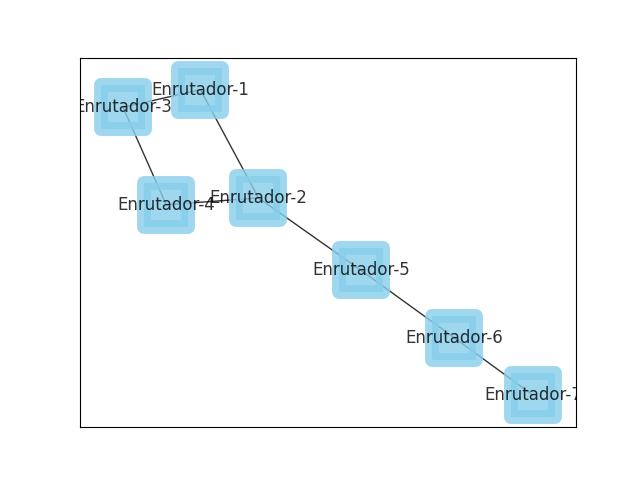
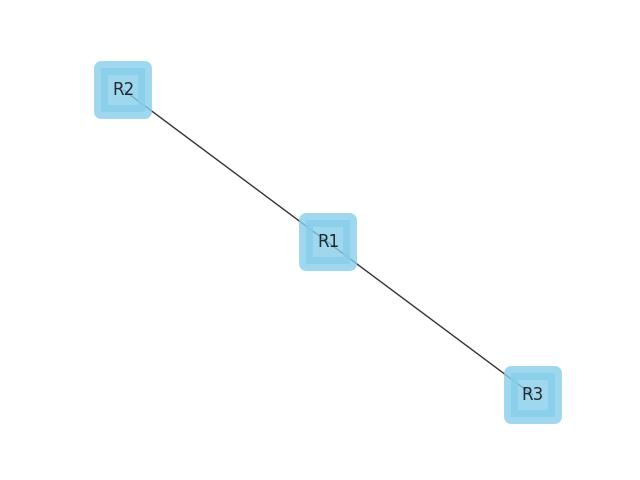
0.2v

diff --git a/static/scripts/main.js b/static/scripts/main.js
@@ -1,9 +1,69 @@
 /* LISTENERS */
 // Documento
-document.addEventListener('DOMContentLoaded', cargarTopologia);
+//document.addEventListener('DOMContentLoaded', cargarTopologia);
+
+
+
+document.getElementById("demo").addEventListener("click", myFunction);
+document.getElementById("demo1").addEventListener("click", myFunction2);
+
+
+function myFunction() {
+    sessionStorage.setItem('boton', true);
+    document.getElementById('contenedor_user').style.display = "block";
+    document.getElementById("user").value="";
+    document.getElementById("pass").value="";
+}
+function myFunction2(){
+    cargarTopologia(sessionStorage.getItem('user'),sessionStorage.getItem('pass'));
+    document.location.reload(true);
+}
+
+if(sessionStorage.getItem('boton') == 'true'){
+    document.getElementById("demo").disabled = true;
+    document.getElementById("demo").style.backgroundColor = '#764b4f';
+}
+
+document.getElementById('btn_can').addEventListener("click",function() {
+    document.getElementById('contenedor_user').style.display = "none";
+    sessionStorage.removeItem('explorar');
+    sessionStorage.removeItem('boton');
+  });
+  document.getElementById('btn_acce').addEventListener("click",function() {
+    Verify()
+  });
+
+
+window.addEventListener("click",function(event) {
+    if (event.target == this.document.getElementById('contenedor_user')) {
+      this.document.getElementById('contenedor_user').style.display = "none";
+    }
+  });
+
+function Verify() {
+    var user =  document.getElementById("user").value;
+    var pass = document.getElementById("pass").value;
+    
+    if(user.leght == 0 || pass.leght == 0){
+        alert('Esta vacio');
+    }else{
+        sessionStorage.setItem('user',user);
+        sessionStorage.setItem('pass',pass);
+        cargarTopologia(user,pass);
+        document.getElementById("demo").disabled = true;
+        document.getElementById("demo").style.backgroundColor = '#764b4f';
+        document.getElementById('contenedor_user').style.display = "none";
+    }
+  };
+  if(sessionStorage.getItem('boton')=='true'){
+    cargarTopologia(sessionStorage.getItem('user'),sessionStorage.getItem('pass'));
+  }
+
+
 
 /* FUNCIONES */
-async function cargarTopologia() { // Consultamos la API para obtener la topologia
+async function cargarTopologia(user, pass) { // Consultamos la API para obtener la topologia
+    console.log(user+" "+pass);
     const response = await fetch('/topologia',
         {
             method: 'POST',
@@ -11,10 +71,10 @@ async function cargarTopologia() { // Consultamos la API para obtener la topolog
                 'Content-Type': 'application/json'
             },
             body: JSON.stringify({
-                'ip': '192.168.0.1',
+                'ip': '148.204.56.1',
                 'name': 'Host',
-                'user': 'admin',
-                'password': 'admin1234'
+                'user': user,
+                'password': pass
             })
         }
     );

diff --git a/static/index.html b/static/index.html
@@ -13,6 +13,15 @@
 
 <body>
     <div class="contenedor">
+        <div id="contenedor_user" class="user">
+            <h3>Credenciales</h3>
+            <input type="text" id="user" placeholder="Ingresa el usuario">
+            <input type="text" id="pass" placeholder="Ingresa la contrasena">
+            <div class="user-botones">
+                <button id="btn_acce">Acceder</button>
+                <button id="btn_can">Cancelar</button>
+            </div>
+        </div>
         <main class="main">
             <!-- Título -->
             <h1 class="Titulo"><a href="/">ADMINISTRADOR DE REDES</a></h1>
@@ -22,23 +31,27 @@
                 <div class="">
                     <!-- Titulo -->
                     <h2 id="titulo-seccion" class="">Topología</h2>
-
+                    <div class="botones-sup">
+                        <button id="demo">Explorar red</button>
+                        <button id="demo1">Actualizar</button>
+                    </div>
                     <!-- Topología -->
                     <div class="contenedor-img">
-                        <img src="" id="img-topo" alt="Topología de la red" class="">
+                        <img src="" id="img-topo">
                     </div>
                 </div>
-
+                
                 <!-- opciones de administración -->
                 <div class="contenedor-admin">
                     <h2 class="">Opciones de administración</h2>
                     <div class="botones">
-                        <button id=""><a href="/monitorear">Getionar usuarios</a></button>
-                        <button id=""><a href="/monitorear">Gestionar protocolos</a></button>
+
+                        <button id=""><a href="/monitorear">Enrutar interfaces</a></button>
                         <button id=""><a href="/monitorear">Cambiar configuracion MIB-II</a></button>
                         <button><a href="/monitorear" class="">Monitoriear interfaces</a></button>
                     </div>
                 </div>
+            </div>
         </main>
     </div>
     <script src="/static/scripts/main.js"></script>

diff --git a/static/styles.css b/static/styles.css
@@ -22,7 +22,7 @@ body{
     letter-spacing: -3px;
     transition: 700ms ease;
     font-variation-settings: "wght" 311;
-    margin-bottom: 0.8rem;
+    margin-bottom: 0.2rem;
     
     outline: none;
     text-align: center;
@@ -50,7 +50,16 @@ h1:hover {
     border: 0;
 }
 
-
+.botones-sup button{
+    padding: 4px;
+    background-color: #e63946;
+    color: white;
+    border: 0;
+    border-radius: 4px;
+    margin-left: 1rem;
+    margin-right: 1rem;
+    margin-top: 0.4rem;
+}
 
 .botones a:visited {
     text-decoration: none;
@@ -73,4 +82,34 @@ h1:hover {
 .contenedor h1 > a:link, a:visited{
     color: #e63946;;
     
+}
+.user{
+    position:absolute;
+    z-index: 2;
+    display: none;
+    background-color: rgba(101, 235, 136, 0.8);
+    padding: 1.5rem;
+}
+.user h3{
+    font-family: Ubuntu,'Courier New', Courier, monospace;
+    margin-bottom: 0.4rem;
+
+}
+.user input{
+    height: 28px;
+    border: 0;
+    margin:0 5px;
+    padding: 0.1rem;
+}
+.user-botones{
+    width: 100%;
+    margin-top: 0.6rem;
+    text-align: right;
+}
+.user-botones button{
+    margin-left: 0.4rem;
+    margin-right: 0.4rem;
+    border: 0;
+    border-radius: 5px;
+    padding: 5px;
 }

diff --git a/router.py b/router.py
@@ -18,9 +18,12 @@ class Router:
         self.direcciones={}
 
     def buscarVecinos(self, visited=set(), stack=[], child=''):
-        child = pexpect.spawn('telnet ' + self.ip)
-        child.expect('Username: ')
-        child.sendline(self.user)
+        #child = pexpect.spawn('telnet ' + self.ip)
+        #child.expect('Username: ')
+        #child.sendline(self.user)
+        #child.expect('Password: ')
+        #child.sendline(self.password)
+        child = pexpect.spawn('ssh '+self.user+'@'+ self.ip)
         child.expect('Password: ')
         child.sendline(self.password)
         child.expect('#')
@@ -45,14 +48,15 @@ class Router:
         
         di_ip=None
         if node not in visited:
-            if node != 'Enrutador-3':
+            if node != 'R3':
+                
                 if node in direcciones.keys():
                     di_ip=direcciones[node]
-                #print(di_ip)
-                child.sendline('telnet ' + di_ip[len(di_ip)-1])
+                #child.sendline('telnet ' + di_ip[len(di_ip)-1])
+                child.sendline('ssh -l '+self.user+' '+di_ip[len(di_ip)-1])
                 #print(di_ip[len(di_ip)-1])
-                child.expect('Username: ')
-                child.sendline(self.user)
+                #child.expect('Username: ')
+                #child.sendline(self.user)
                 child.expect('Password: ')
                 child.sendline(self.password)
                 #print('Conecto a '+node + ' ' + di_ip)
@@ -68,8 +72,9 @@ class Router:
             for neighbour in routers[node]: 
                 print(node+'->'+neighbour)
                 #print(stack)
-                if len(routers[node]) == 1:
-                    continue
+                
+                #if len(routers[node]) == 1:
+                #    continue
 
                 if stack[-1] != node:
                     while stack[-1] != node:
@@ -78,6 +83,8 @@ class Router:
                         child.expect('#')
 
                 self.dfs2(visited, routers, neighbour,direcciones,stack,child)
+
+                
 
             
 
@@ -93,12 +100,13 @@ class Router:
         tabla_dispositivos = child.before.decode().split()
 
         # Agrega a la lista si tiene la palabra Enrutador
-        conectados = [x for x in tabla_dispositivos if "Enrutador" in x]
+        #conectados = [x for x in tabla_dispositivos if "Enrutador" in x]
+        conectados = [str(re.search('(^R[0-9])+', w).group()) for w in tabla_dispositivos if re.search('(^R[0-9])+', w)]
         routers[node]=conectados
         
         for dispositivo in conectados:
             # Obtenemos la info del dispositivo
-            child.sendline('sh cdp entry ' + dispositivo)
+            child.sendline('sh cdp entry ' + dispositivo+'.adminredes.escom.ipn.mx')
             child.expect(node+"#")
             info_dispositivo = child.before.decode().split()
 

diff --git a/app.py b/app.py
@@ -1,6 +1,7 @@
 from flask import Flask, request, jsonify, send_file
 from red import Red
 import logging
+import os
 
 # logging.basicConfig(level=logging.DEBUG, format='%(asctime)s - %(levelname)s - %(message)s', datefmt='%d-%b-%y %H:%M:%S', handlers=[logging.FileHandler('app.log')])
 logging.basicConfig(level=logging.WARNING, format='%(levelname)s: %(message)s')
@@ -33,9 +34,11 @@ def obtenerTopologia():
     red = Red(ip, name, user, password)
     
     # Leyendo la topologia
-    red.leerTopologia() # almacena en el archivo topologia.jpg
-    
-    return send_file('static/topologia.jpg')
+    if os.path.exists('static/topologia.jpg'):
+        return send_file('static/topologia.jpg' )
+    else:
+        red.leerTopologia() # almacena en el archivo topologia.jpg
+        return send_file('static/topologia.jpg')
 
 @app.get('/info-topologia')
 def obtenerInfoTopologia():
@@ -72,4 +75,4 @@ def monitorearInterfaz():
         return jsonify({"status": "Error monitoreando"}), 500        
 
 if __name__ == '__main__':
-    app.run(debug=True)
+    app.run(debug=True,host='0.0.0.0', port=5020)

diff --git a/red.py b/red.py
@@ -23,6 +23,7 @@ class Red():
         #router_cercano = routersGraph(1,0,0,"admin","admin1234", child=None)
         # Generando gráfico
         plt.clf() # Limpiando imagen
+        #plt.figure(figsize=(6, 6))
         G = nx.Graph()
         for router in Grafico_red.keys(): # Agregando routers
             G.add_node(router, name=router)
@@ -31,6 +32,8 @@ class Red():
                 G.add_edge(r1,r2)
 
         nx.draw_networkx(G, with_labels=True, node_size=1000,node_color="skyblue", node_shape="s", alpha=0.8, linewidths=10) # Creando gráfico
+        plt.box(False)
+        plt.axis('off')
         plt.savefig("static/topologia.jpg")
     
     def obtenerRouters(self):
